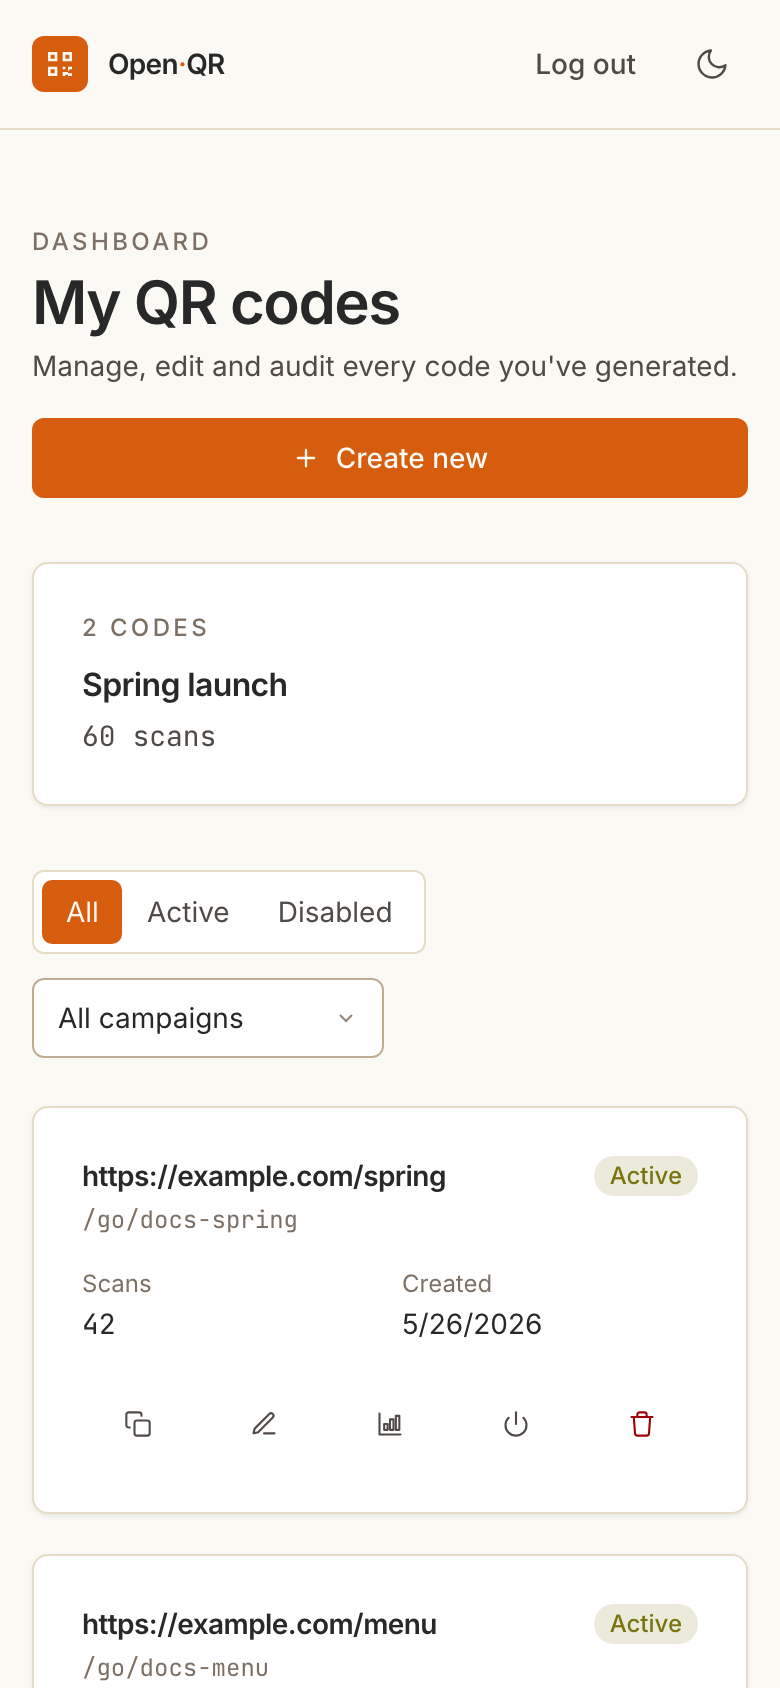
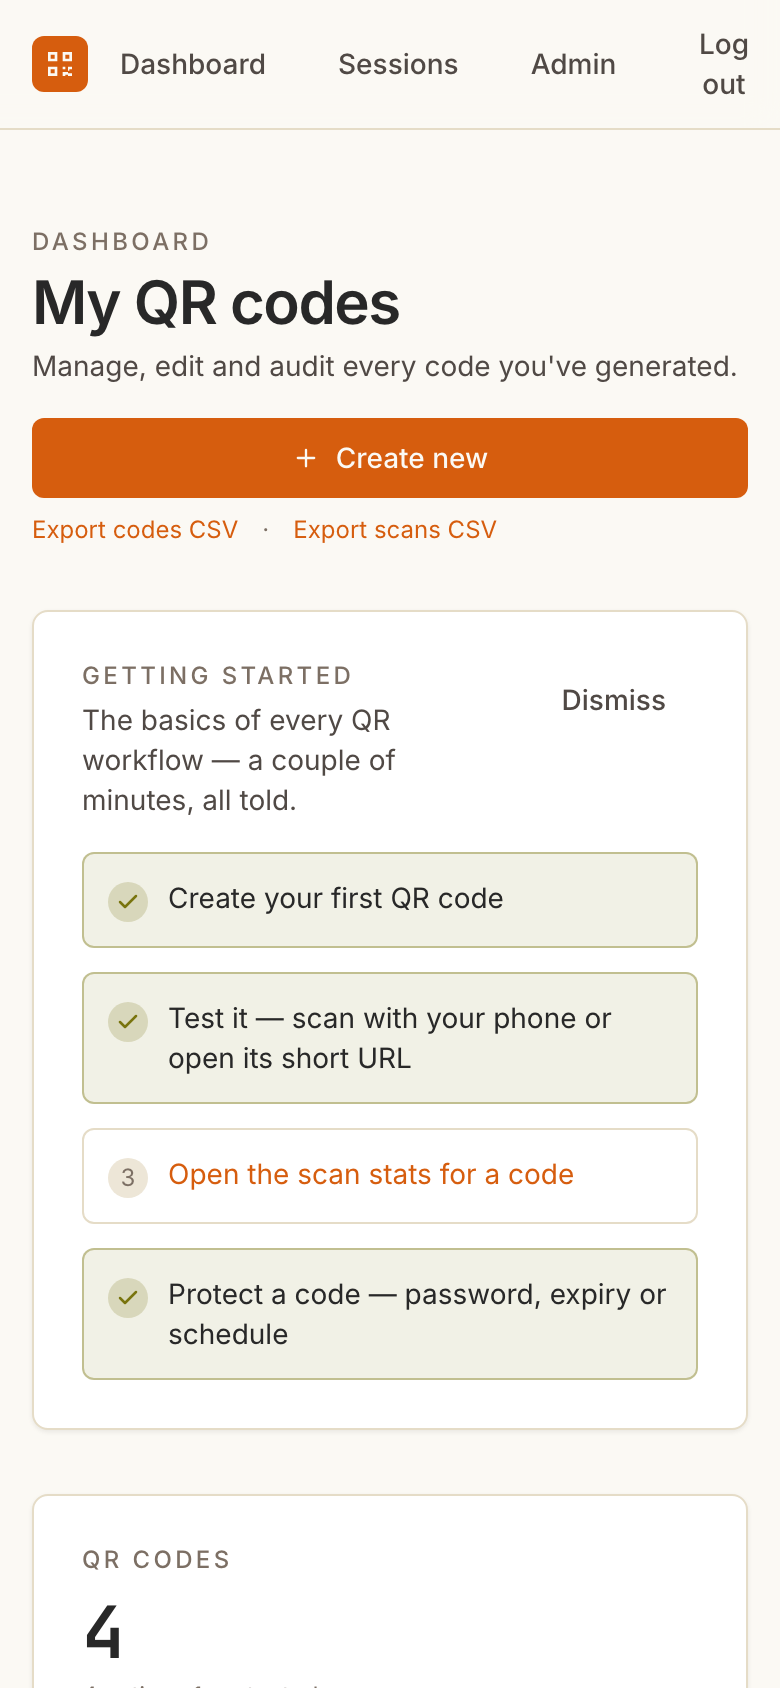
docs: full 1.5.0 pass
Refresh all eight committed screenshots against the 1.5.0 UI (seeded
demo instance; regenerable via scripts/docs-screenshots.mjs). Document
the image endpoint (?format=svg), webhook redirect re-validation, the
security-hardening upgrade effects (one re-login, uniques boundary),
ratcheted password hashing and the new Security/Privacy wording, the
weekly digest in mail setup, and the current admin settings surface.
Fix stale stack notes (resvg, Node 22+) and add the missing Operations
entry to the table of contents.

diff --git a/README.md b/README.md
@@ -25,6 +25,12 @@ A self-hosted, open-source QR code generator with optional OTP authentication, a
   - [Generating QR Codes](#generating-qr-codes)
   - [Managing QR Codes](#managing-qr-codes)
   - [Admin Panel](#admin-panel)
+- [Operations](#operations)
+  - [Creating the first admin](#creating-the-first-admin)
+  - [Running a public-facing instance](#running-a-public-facing-instance)
+  - [Block list and suspicious-URL detection](#block-list-and-suspicious-url-detection)
+  - [Abuse reports](#abuse-reports)
+  - [Backup](#backup)
 - [API Documentation](#api-documentation)
   - [Authentication](#authentication)
   - [QR Codes](#qr-codes)
@@ -177,8 +183,9 @@ matter more than individual codes.
 
 **Scan log**
 Each successful redirect records a timestamp, coarse country from trusted proxy
-headers when present, device class, and SHA-256 hashes of IP/User-Agent values.
-Raw IP addresses and raw User-Agent strings are not persisted.
+headers when present, device class, and hashed IP/User-Agent values (the IP
+hash is keyed with a per-install pepper). Raw IP addresses and raw
+User-Agent strings are not persisted.
 
 **Admin settings**
 Most product behavior is stored in SQLite and can be changed at runtime from
@@ -242,14 +249,23 @@ so logged-in users are asked to re-accept the Terms.
 
 ### Upgrade Notes For 1.5.0
 
-Migration `008` adds the static-content `kind` column, the `qr_variants` and
-`webhooks` tables, `scan_logs.variant_id`, and the digest columns on `users`.
-Run migrations before serving traffic:
+Migrations `008` (static-content `kind` column, `qr_variants` and `webhooks`
+tables, `scan_logs.variant_id`, digest columns on `users`) and `009`
+(security hardening — invalidates stored sessions) run automatically at
+startup, or manually before serving traffic:
 
 ```bash
 npm run db:migrate
 npm run db:init   # idempotent; seeds ENABLE_WEEKLY_DIGEST
 ```
+
+After upgrading, expect two one-time effects of the security hardening:
+
+- **Everyone logs in again once** — session ids are now stored hashed, and
+  migration `009` drops pre-existing sessions.
+- **Unique-scan counts see a one-scan boundary** — `ip_hash` is now keyed
+  with a per-install pepper, so a device scanning across the upgrade counts
+  once under the old scheme and once under the new one.
 
 New settings to review after upgrading:
 
@@ -295,17 +311,17 @@ Review these settings after upgrading:
 Open-QR is built as a full-stack SvelteKit application with a focus on simplicity and self-hosting:
 
 ```
-User -> Browser -> SvelteKit (Node.js 24)
+User -> Browser -> SvelteKit (Node.js 22+)
                        |
                        +-> SQLite (better-sqlite3)
-                       +-> QR Generation (qrcode + canvas)
+                       +-> QR Generation (qrcode + @resvg/resvg-js)
                        +-> Email (nodemailer)
 ```
 
 **Why this stack?**
 - **SvelteKit**: Handles both UI and API in a single process
 - **SQLite**: Zero-config, single-file database perfect for self-hosting
-- **Node.js 24**: Latest LTS with best performance
+- **Node.js 22+**: Current LTS line with best performance
 - **Single container**: One Docker image with everything included
 
 ---
@@ -452,8 +468,9 @@ No authentication at all. Everyone can create QR codes but nobody can edit them 
 
 ### Email setup
 
-OTP login codes are the only emails Open-QR sends. The mailer picks a
-provider at startup based on env vars, in this order:
+OTP login codes — and, if you enable it, the weekly scan digest — are the
+emails Open-QR sends. The mailer picks a provider at startup based on env
+vars, in this order:
 
 1. **Resend** (`RESEND_API_KEY`) — HTTP API, no SMTP needed.
 2. **SMTP** (`SMTP_HOST`) — any provider that speaks SMTP.
@@ -628,11 +645,16 @@ per-variant scan attribution on the stats page.
 ### Managing QR Codes
 
 **Authenticated users** can:
-- View all their QR codes on the dashboard (`/dashboard`)
-- Edit target URL, styling, or expiration (with live preview)
-- Enable/disable QR codes
-- Delete QR codes permanently
-- View scan analytics (total scans, daily breakdown, recent scans, country and device-class breakdowns)
+- View all their QR codes on the dashboard (`/dashboard`) — overview tiles,
+  recent scan activity, sorting, compact list view, and load-more pagination
+- Edit target URL, styling, static payloads, or expiration (with live preview)
+- Configure alternative targets: scheduled overrides and A/B splits, with a
+  live split preview and per-variant scan attribution
+- Open a print-ready sheet per code at an exact physical size (20–50 mm)
+- Test a code without a phone via "Open destination" / "View /go page"
+- Enable/disable or delete QR codes
+- View scan analytics (total scans, uniques, ranges, recent scans, country and device-class breakdowns)
+- Subscribe to scan webhooks and the weekly digest email
 - Issue and revoke API keys from the **API keys** section on the dashboard
 - Bulk-create codes by uploading or pasting a CSV at `/dashboard/bulk`
 
@@ -652,10 +674,13 @@ Access the admin panel at `/admin` (admin users only):
 - Remove patterns
 
 **Settings Tab:**
-- Change brand name
-- Configure the public base URL used for generated short links
-- Enable/disable OTP authentication
-- Enable/disable anonymous creation
+- Change brand name, public base URL, and stale-account purge window
+- Enable/disable OTP authentication, anonymous creation, and the login
+  proof-of-work check
+- Toggle custom slugs (and admin-only slugs), the destination interstitial,
+  and the weekly digest email
+- Set default QR template and error correction for new codes
+- Configure threat-intel providers and Plausible analytics
 
 **Analytics Tab:**
 - Total scans, today's scans
@@ -913,6 +938,14 @@ Content-Type: application/json
 DELETE /api/v1/qr/:short_code
 ```
 
+#### QR Image
+```http
+GET /api/v1/qr/:short_code/image              # PNG (dashboard thumbnails)
+GET /api/v1/qr/:short_code/image?format=svg   # lossless SVG (print sheet)
+```
+Owner/admin only; renders the code's stored styling and short URL (static
+kinds render their payload). Cache headers are short so edits refresh.
+
 #### Get QR Stats
 ```http
 GET /api/v1/qr/:short_code/stats?from=2026-09-01T00:00:00Z&to=2026-09-29T23:59:59Z&granularity=day|hour
@@ -964,7 +997,9 @@ an `X-OpenQR-Signature: sha256=<hex>` header — the HMAC-SHA256 of the raw
 body keyed with the webhook's secret, so receivers can verify authenticity.
 Deliveries are fire-and-forget (5s timeout) and never delay a redirect;
 delivery outcomes are recorded per hook. URLs pointing at private/loopback
-addresses are rejected at registration and before every delivery.
+addresses are rejected at registration and before every delivery — including
+redirect hops, which are followed manually and re-validated so a public URL
+that 302s to an internal address never receives the event.
 
 ```http
 GET    /api/v1/webhooks             # list (secret masked)
@@ -1224,12 +1259,22 @@ cloudflared tunnel --url http://localhost:3000
 - **Referential integrity**: scan logs cascade with their QR code,
   sessions/API keys/presets with their user — deleting data never leaves
   orphaned rows or fails on foreign-key constraints.
-- **SSRF guard**: server-side fetches of QR center images reject private,
-  loopback, and link-local addresses, and re-validate every redirect hop.
-- **Password hashing**: PBKDF2-SHA256, 120k iterations (used for QR-code
-  password gates and OTP code storage).
-- **API key storage**: tokens stored as SHA-256 hash; the plaintext is shown
-  exactly once at issuance.
+- **SSRF guard**: server-side fetches of QR center images and webhook
+  deliveries reject private, loopback, and link-local addresses, and
+  re-validate every redirect hop.
+- **Password-gate throttling**: 10 attempts per 5 minutes per IP+code on the
+  `/go/` gate, enforced before the hashing work.
+- **Security headers**: nonce-based CSP (Plausible-aware when enabled),
+  `X-Content-Type-Options`, `X-Frame-Options`, `Referrer-Policy`,
+  `Permissions-Policy`, and HSTS on every response.
+- **Password hashing**: PBKDF2-SHA256 at 600k iterations (QR-code password
+  gates; older gates rehash transparently on successful entry).
+- **Token storage**: API keys and session ids are stored hashed — a leaked
+  database exposes neither. Plaintext values are shown exactly once.
+- **IP hashing**: scan `ip_hash` values are keyed with a per-install pepper,
+  so a leaked database can't be dictionary-attacked across the IPv4 space.
+- **CSV export**: cells that could execute as spreadsheet formulas are
+  neutralized.
 - **SQL**: prepared statements with parameter binding throughout — no string
   interpolation into queries.
 
@@ -1239,7 +1284,8 @@ cloudflared tunnel --url http://localhost:3000
 
 Open-QR is designed with privacy as a core principle:
 
-- **No raw IP addresses**: All IPs are SHA-256 hashed before storage
+- **No raw IP addresses**: All IPs are hashed with a per-install key before
+  storage
 - **No fingerprinting**: No browser fingerprinting or unique visitor tracking
 - **No third-party services by default**: No Google Analytics and no external trackers unless the operator enables an optional integration
 - **Optional Plausible**: Operators can enable Plausible in the admin panel; doing so adds a third-party/self-hosted analytics script and should be reflected in the operator's privacy notice
